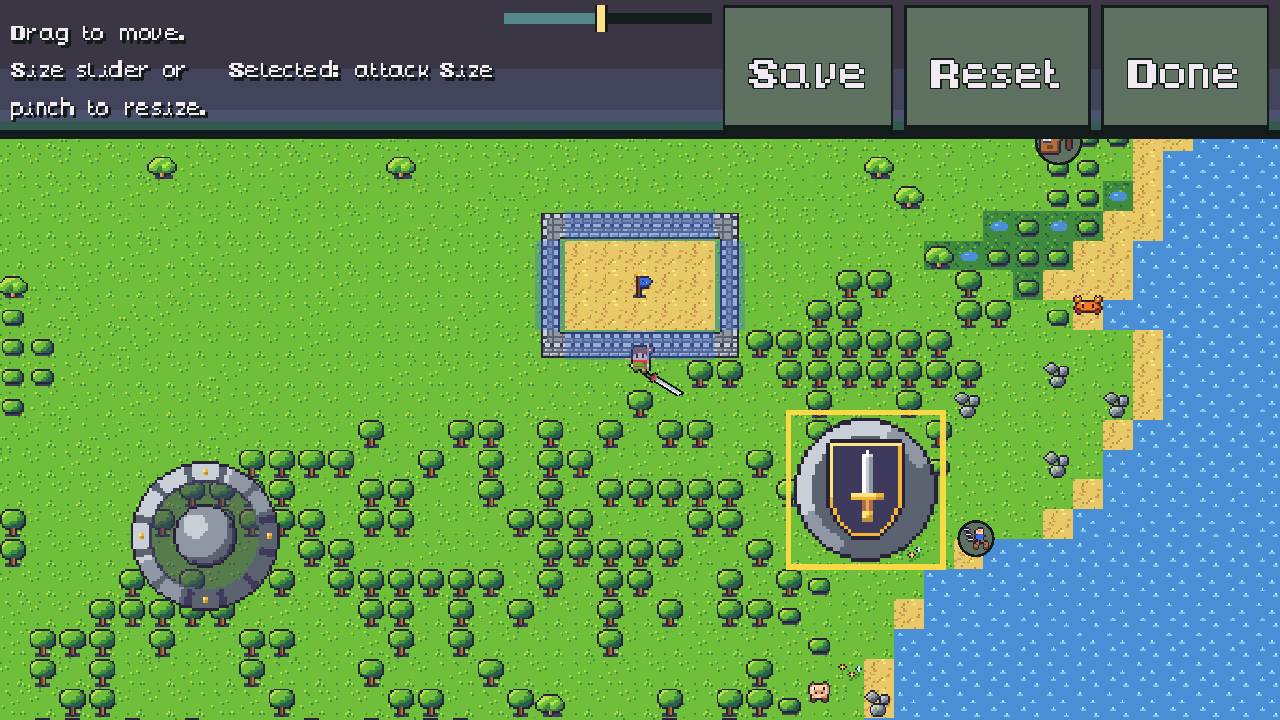
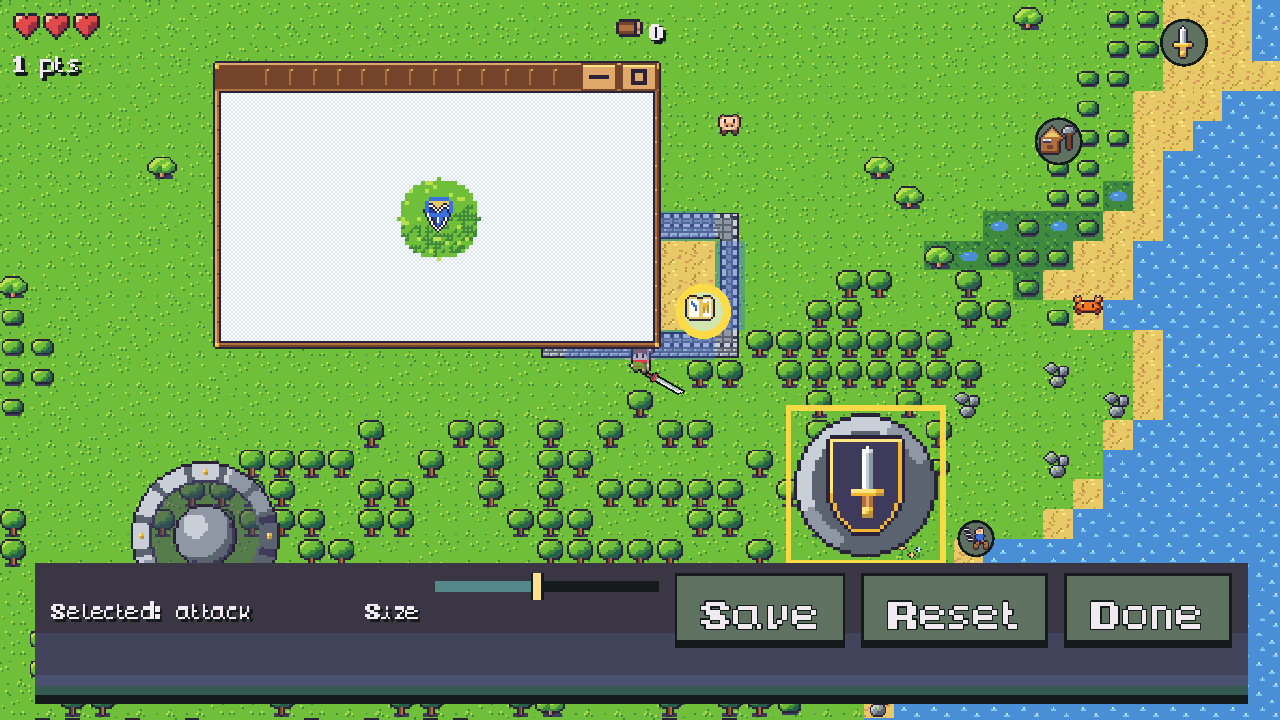
Keep HUD edit bar off touch controls and fix reset
Auto-place a compact two-row edit bar on a low edge, relayout after
moves, and reserve the bar rect while clamping placements. Fix reset
when a custom draft was active, await edit open, and extend the drive
with Map moves and refreshed evidence shots.

diff --git a/.cursor/skills/verify-flagoria/features/hud-customize.md b/.cursor/skills/verify-flagoria/features/hud-customize.md
@@ -21,7 +21,7 @@ Preconditions: `doctor.sh` exits `0`. Time cost: the three `tests/ui/test_hud_la
 
 - **Run.** `./tools/verify.sh`, or `godot --headless --path . --script res://tests/run_tests.gd -- --only=hud_layout_round_trip,hud_layout_clamp_overlap,hud_layout_reset`.
 - **Proof.** Headers `-- test_hud_layout_round_trip`, `-- test_hud_layout_clamp_overlap`, and `-- test_hud_layout_reset` with no `FAIL` after them.
-- **Drive (live).** `bin/launch.sh drives/hud_customize.gd --seed 49 --display`. Snapshots: `default-layout`, `edit-mode`, `moved-control`, `after-save-restart`, `reset-layout`.
+- **Drive (live).** `bin/launch.sh drives/hud_customize.gd --seed 49 --display`. Snapshots: `default-layout`, `edit-mode`, `moved-control` (attack and Map moved; edit bar clear of controls), `after-save-restart`, `reset-layout`.
 
 ## Gotchas
 
